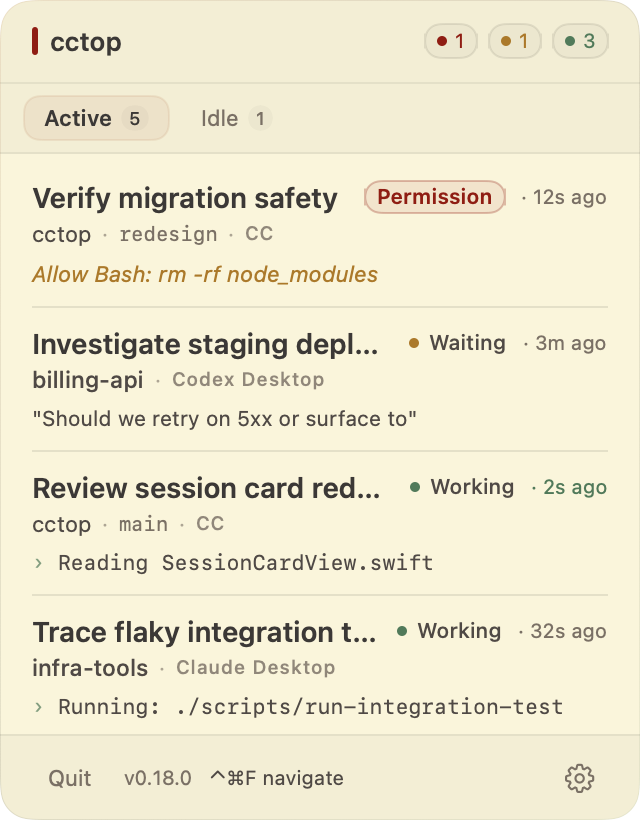
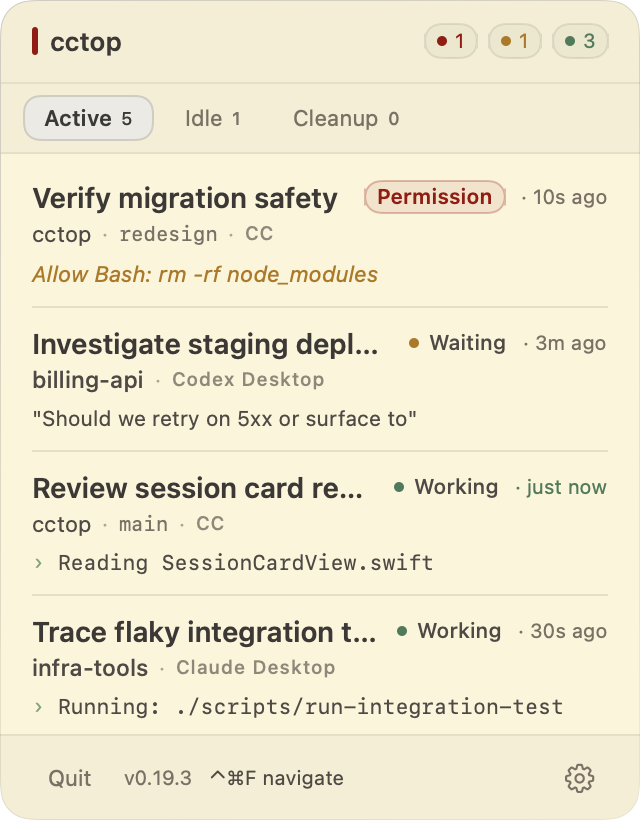
Refresh public app screenshots

diff --git a/AGENTS.md b/AGENTS.md
@@ -324,6 +324,7 @@ The project uses [SwiftLint](https://github.com/realm/SwiftLint) in strict mode.
 ### Visual Changes
 - Use Xcode Previews (Canvas) for instant visual feedback on any SwiftUI view
 - All views have `#Preview` blocks with mock data for different states
+- Before pushing UI changes that affect public screenshots or video proof, regenerate the snapshot-backed `docs/*.png` files and verify prominent current tabs/actions are visible, including the Cleanup tab/button when the panel screenshots show the tab row.
 
 ## Testing the Hooks
 
@@ -648,27 +649,29 @@ If notarization fails, the script automatically fetches the notarization log via
 Most static panel screenshots under `docs/` are generated from `CctopMenubarTests/SnapshotTests.swift`. The test suite renders `PopupView`, navigate mode, recent projects, empty state, onboarding settings, and every theme with deterministic mock data:
 
 ```bash
-# Regenerate all snapshot-backed PNGs under /tmp
+# Regenerate all snapshot-backed PNGs under the macOS temp directory
 xcodebuild test -project menubar/CctopMenubar.xcodeproj -scheme CctopMenubar \
   -only-testing:CctopMenubarTests/SnapshotTests \
   -derivedDataPath menubar/build/ CODE_SIGN_IDENTITY="-"
 
 # Copy the public documentation screenshots into docs/
-cp /tmp/menubar-light.png docs/menubar-light.png
-cp /tmp/menubar-dark.png docs/menubar-dark.png
-cp /tmp/menubar-navigate.png docs/menubar-navigate.png
-cp /tmp/menubar-recent.png docs/menubar-recent.png
-cp /tmp/empty-state-light.png docs/empty-state-light.png
-cp /tmp/empty-state-dark.png docs/empty-state-dark.png
-cp /tmp/theme-claude-dark.png docs/theme-claude-dark.png
-cp /tmp/theme-claude-light.png docs/theme-claude-light.png
-cp /tmp/theme-tokyoNight-dark.png docs/theme-tokyoNight-dark.png
-cp /tmp/theme-tokyoNight-light.png docs/theme-tokyoNight-light.png
-cp /tmp/theme-gruvbox-dark.png docs/theme-gruvbox-dark.png
-cp /tmp/theme-gruvbox-light.png docs/theme-gruvbox-light.png
-cp /tmp/theme-nord-dark.png docs/theme-nord-dark.png
-cp /tmp/theme-nord-light.png docs/theme-nord-light.png
-cp /tmp/theme-tokyoNight-dark.png docs/menubar-tokyonight-dark.png
+snapshot_dir="$(getconf DARWIN_USER_TEMP_DIR)cctop-screenshots"
+cp "$snapshot_dir"/menubar-light.png docs/menubar-light.png
+cp "$snapshot_dir"/menubar-dark.png docs/menubar-dark.png
+cp "$snapshot_dir"/menubar-navigate.png docs/menubar-navigate.png
+cp "$snapshot_dir"/menubar-recent.png docs/menubar-recent.png
+cp "$snapshot_dir"/menubar-cleanup.png docs/menubar-cleanup.png
+cp "$snapshot_dir"/empty-state-light.png docs/empty-state-light.png
+cp "$snapshot_dir"/empty-state-dark.png docs/empty-state-dark.png
+cp "$snapshot_dir"/theme-claude-dark.png docs/theme-claude-dark.png
+cp "$snapshot_dir"/theme-claude-light.png docs/theme-claude-light.png
+cp "$snapshot_dir"/theme-tokyoNight-dark.png docs/theme-tokyoNight-dark.png
+cp "$snapshot_dir"/theme-tokyoNight-light.png docs/theme-tokyoNight-light.png
+cp "$snapshot_dir"/theme-gruvbox-dark.png docs/theme-gruvbox-dark.png
+cp "$snapshot_dir"/theme-gruvbox-light.png docs/theme-gruvbox-light.png
+cp "$snapshot_dir"/theme-nord-dark.png docs/theme-nord-dark.png
+cp "$snapshot_dir"/theme-nord-light.png docs/theme-nord-light.png
+cp "$snapshot_dir"/theme-tokyoNight-dark.png docs/menubar-tokyonight-dark.png
 ```
 
 The showcase sessions are defined in `Session+Mock.swift` (`qaShowcase`). Edit that array to change what appears in the screenshots. GIF demos and `docs/status-icon.png` have separate capture sources and should only be replaced when those flows change.
